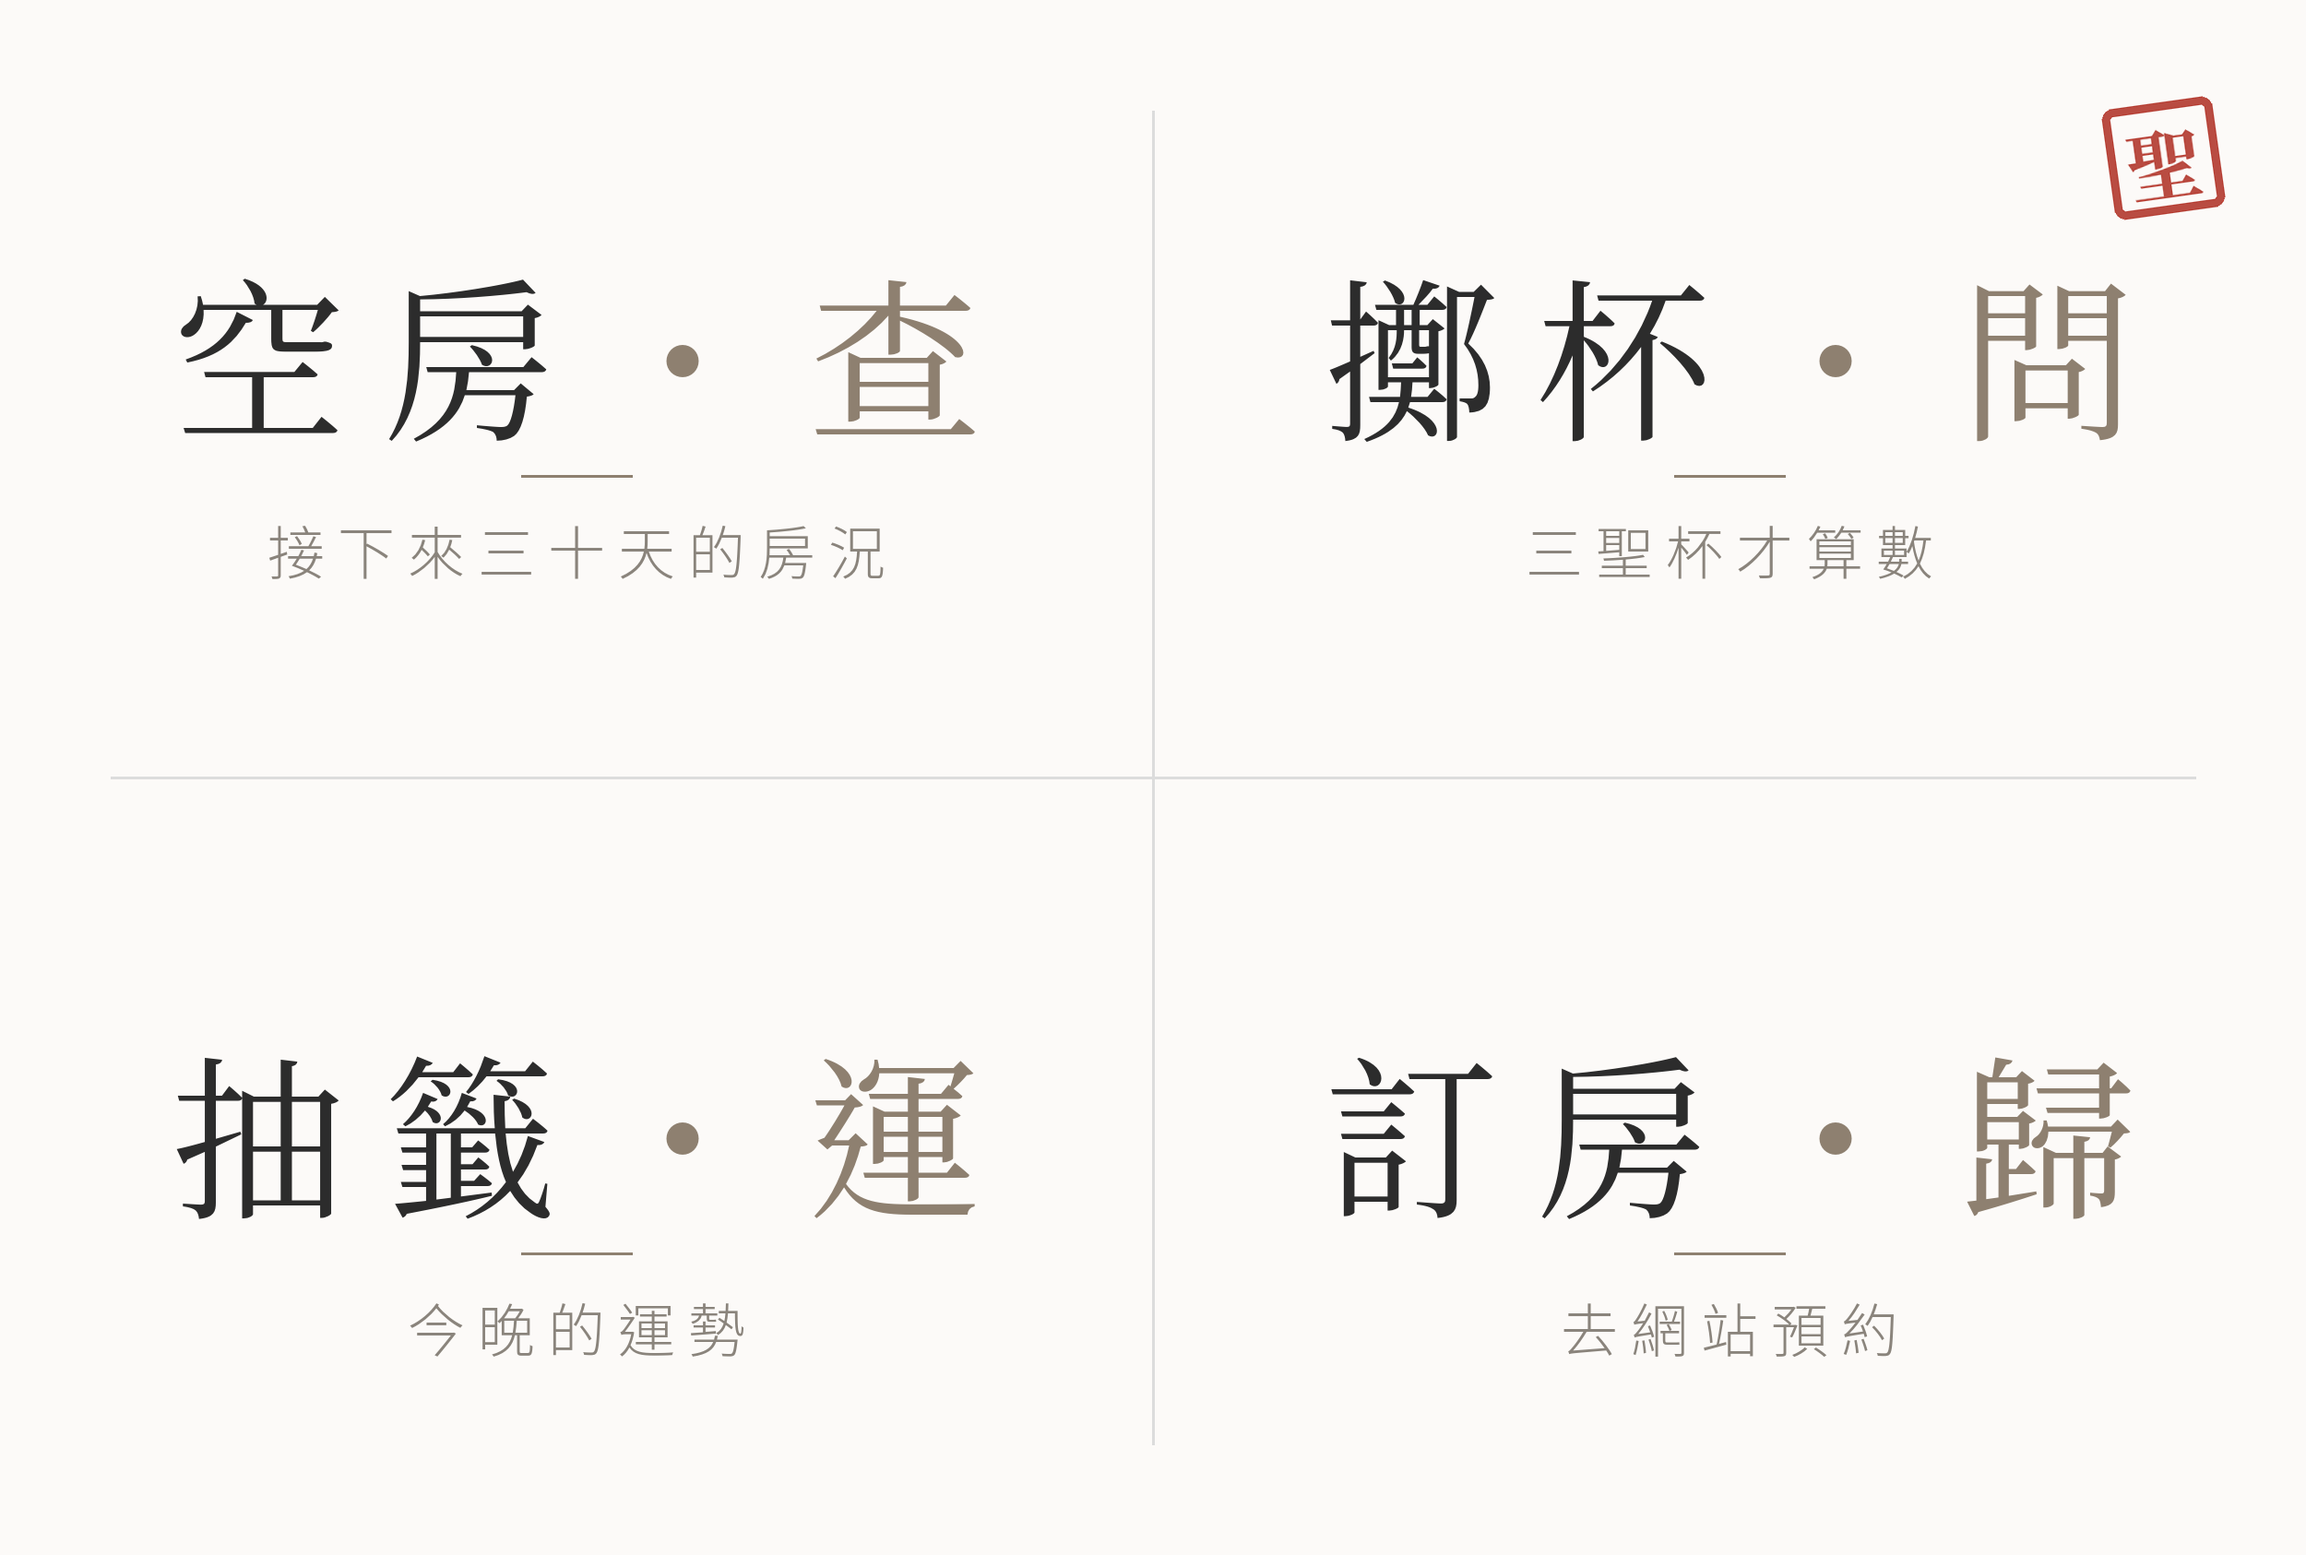
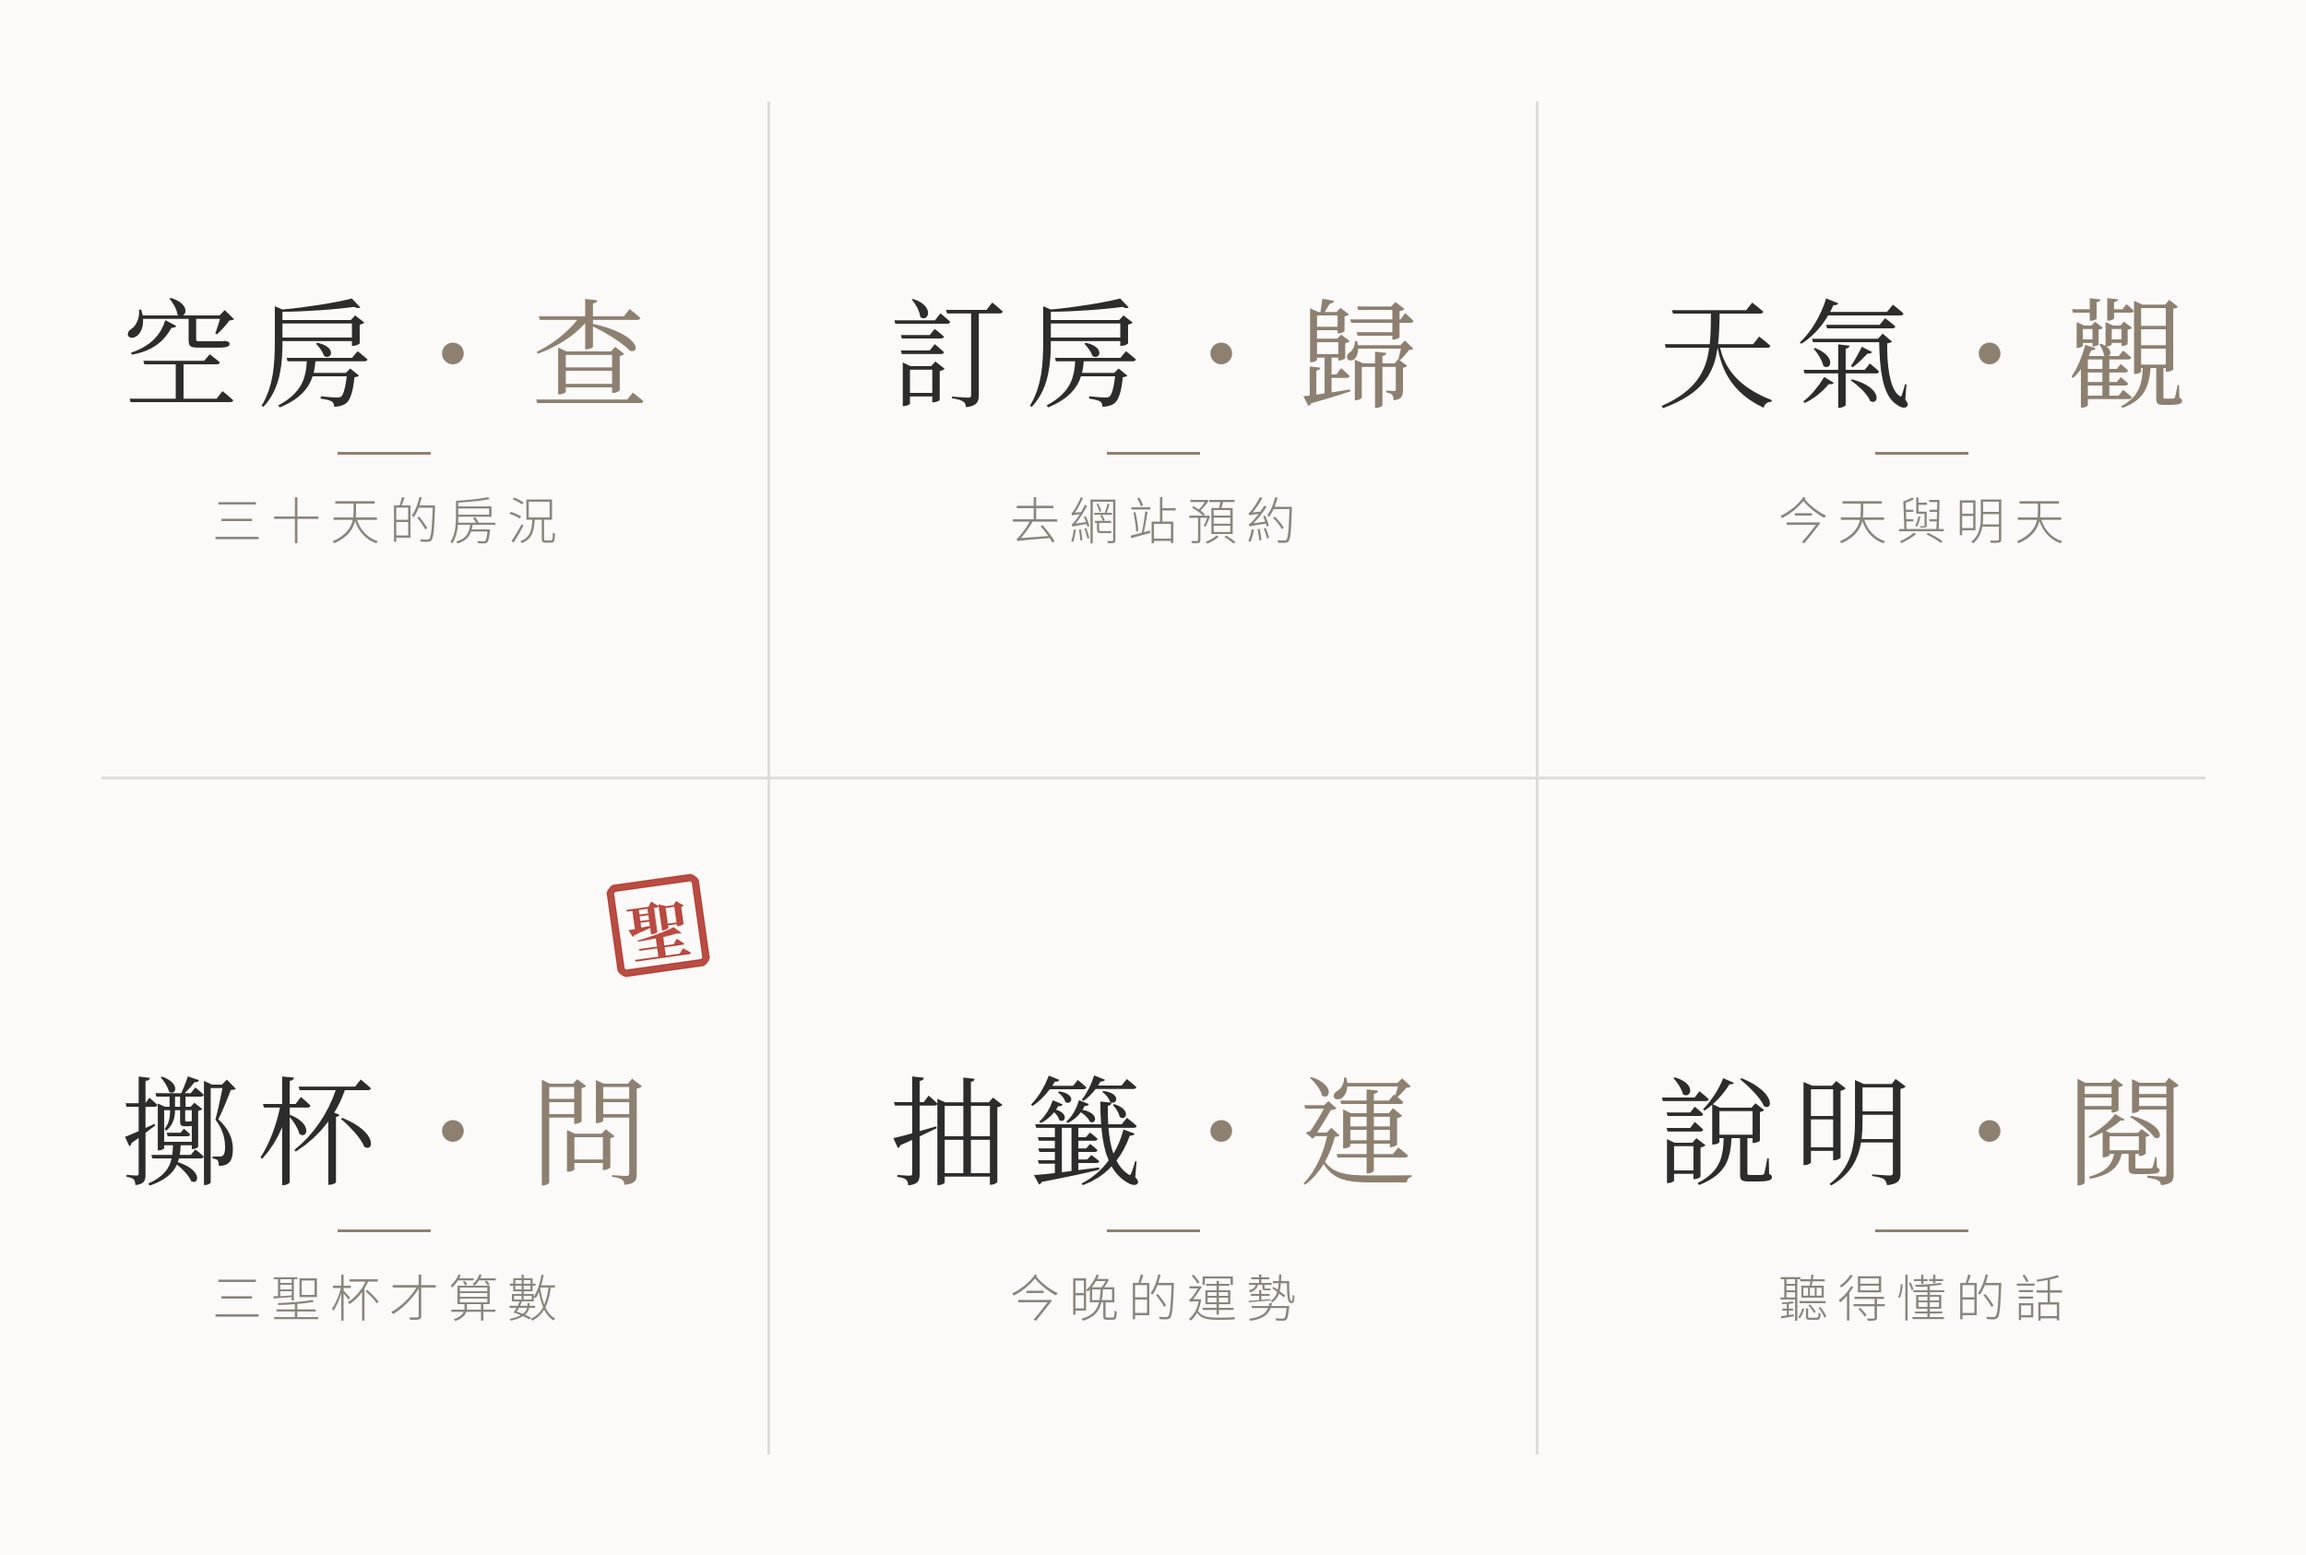
six-cell rich menu with weather and help
Claude-Session: https://claude.ai/code/session_01DfELKGAuUeHGLNNJha5AAX

diff --git a/line-bot/README.md b/line-bot/README.md
@@ -65,13 +65,17 @@
 
 Official Account Manager →「主頁 → 圖文選單 → 建立」：
 
-1. 版型選「大型」的 **2×2 四格**，圖片上傳 `richmenu.png`
-2. 四格的動作（左上、右上、左下、右下）：
-   - 左上：類型「文字」，內容 `空房`
-   - 右上：類型「文字」，內容 `擲杯`
-   - 左下：類型「文字」，內容 `抽籤`
-   - 右下：類型「連結」，網址 `https://tingyu333.github.io/dongbuli4fun/`
+1. 版型選「大型」的 **3×2 六格**，圖片上傳 `richmenu.png`
+2. 六格的動作（上排左到右 A、B、C，下排左到右 D、E、F）：
+   - A 空房・查：類型「文字」，內容 `空房`
+   - B 訂房・歸：類型「連結」，網址 `https://tingyu333.github.io/dongbuli4fun/`
+   - C 天氣・觀：類型「文字」，內容 `天氣`
+   - D 擲杯・問：類型「文字」，內容 `擲杯`
+   - E 抽籤・運：類型「文字」，內容 `抽籤`
+   - F 說明・閱：類型「文字」，內容 `說明`
 3. 選單列顯示文字可以填「二十七樓」，設定成預設顯示，儲存。
+
+> 已經建好舊的四格選單的話：直接編輯那個選單，換版型、換圖、照上面重設六格動作就好，不用刪掉重建。
 
 ## 指令
 

diff --git a/CLAUDE.md b/CLAUDE.md
@@ -76,7 +76,7 @@
 - 指令碼屬性：`LINE_CHANNEL_ACCESS_TOKEN`、`SHEET_ID`、`WEBHOOK_KEY`（webhook 網址要帶 `?key=`，對不上或沒設定就不處理）。
 - 擲杯的三聖杯存在 `CacheService`，key 是 `streak:` + groupId／roomId／userId，6 小時。
 - **台詞跟網站同步**：擲杯台詞（`jiaobei.html` 的 `RESULTS`）、御神籤（`index.html` 的 `FORTUNES`）改了，`line-bot/Code.gs` 的 `JIAOBEI_LINES`、`FORTUNES` 也要改，並請使用者重新部署 bot 專案。
-- 圖文選單的圖是 `line-bot/richmenu.png`（2500×1686，大型 2×2：空房・查、擲杯・問、抽籤・運、訂房・歸）。
+- 圖文選單的圖是 `line-bot/richmenu.png`（2500×1686，大型 3×2 六格：上排空房・查、訂房・歸、天氣・觀，下排擲杯・問、抽籤・運、說明・閱）。版型和每格動作在 `line-bot/README.md`，改圖的格子順序時要一起改。
 
 ## 設計規範
 
